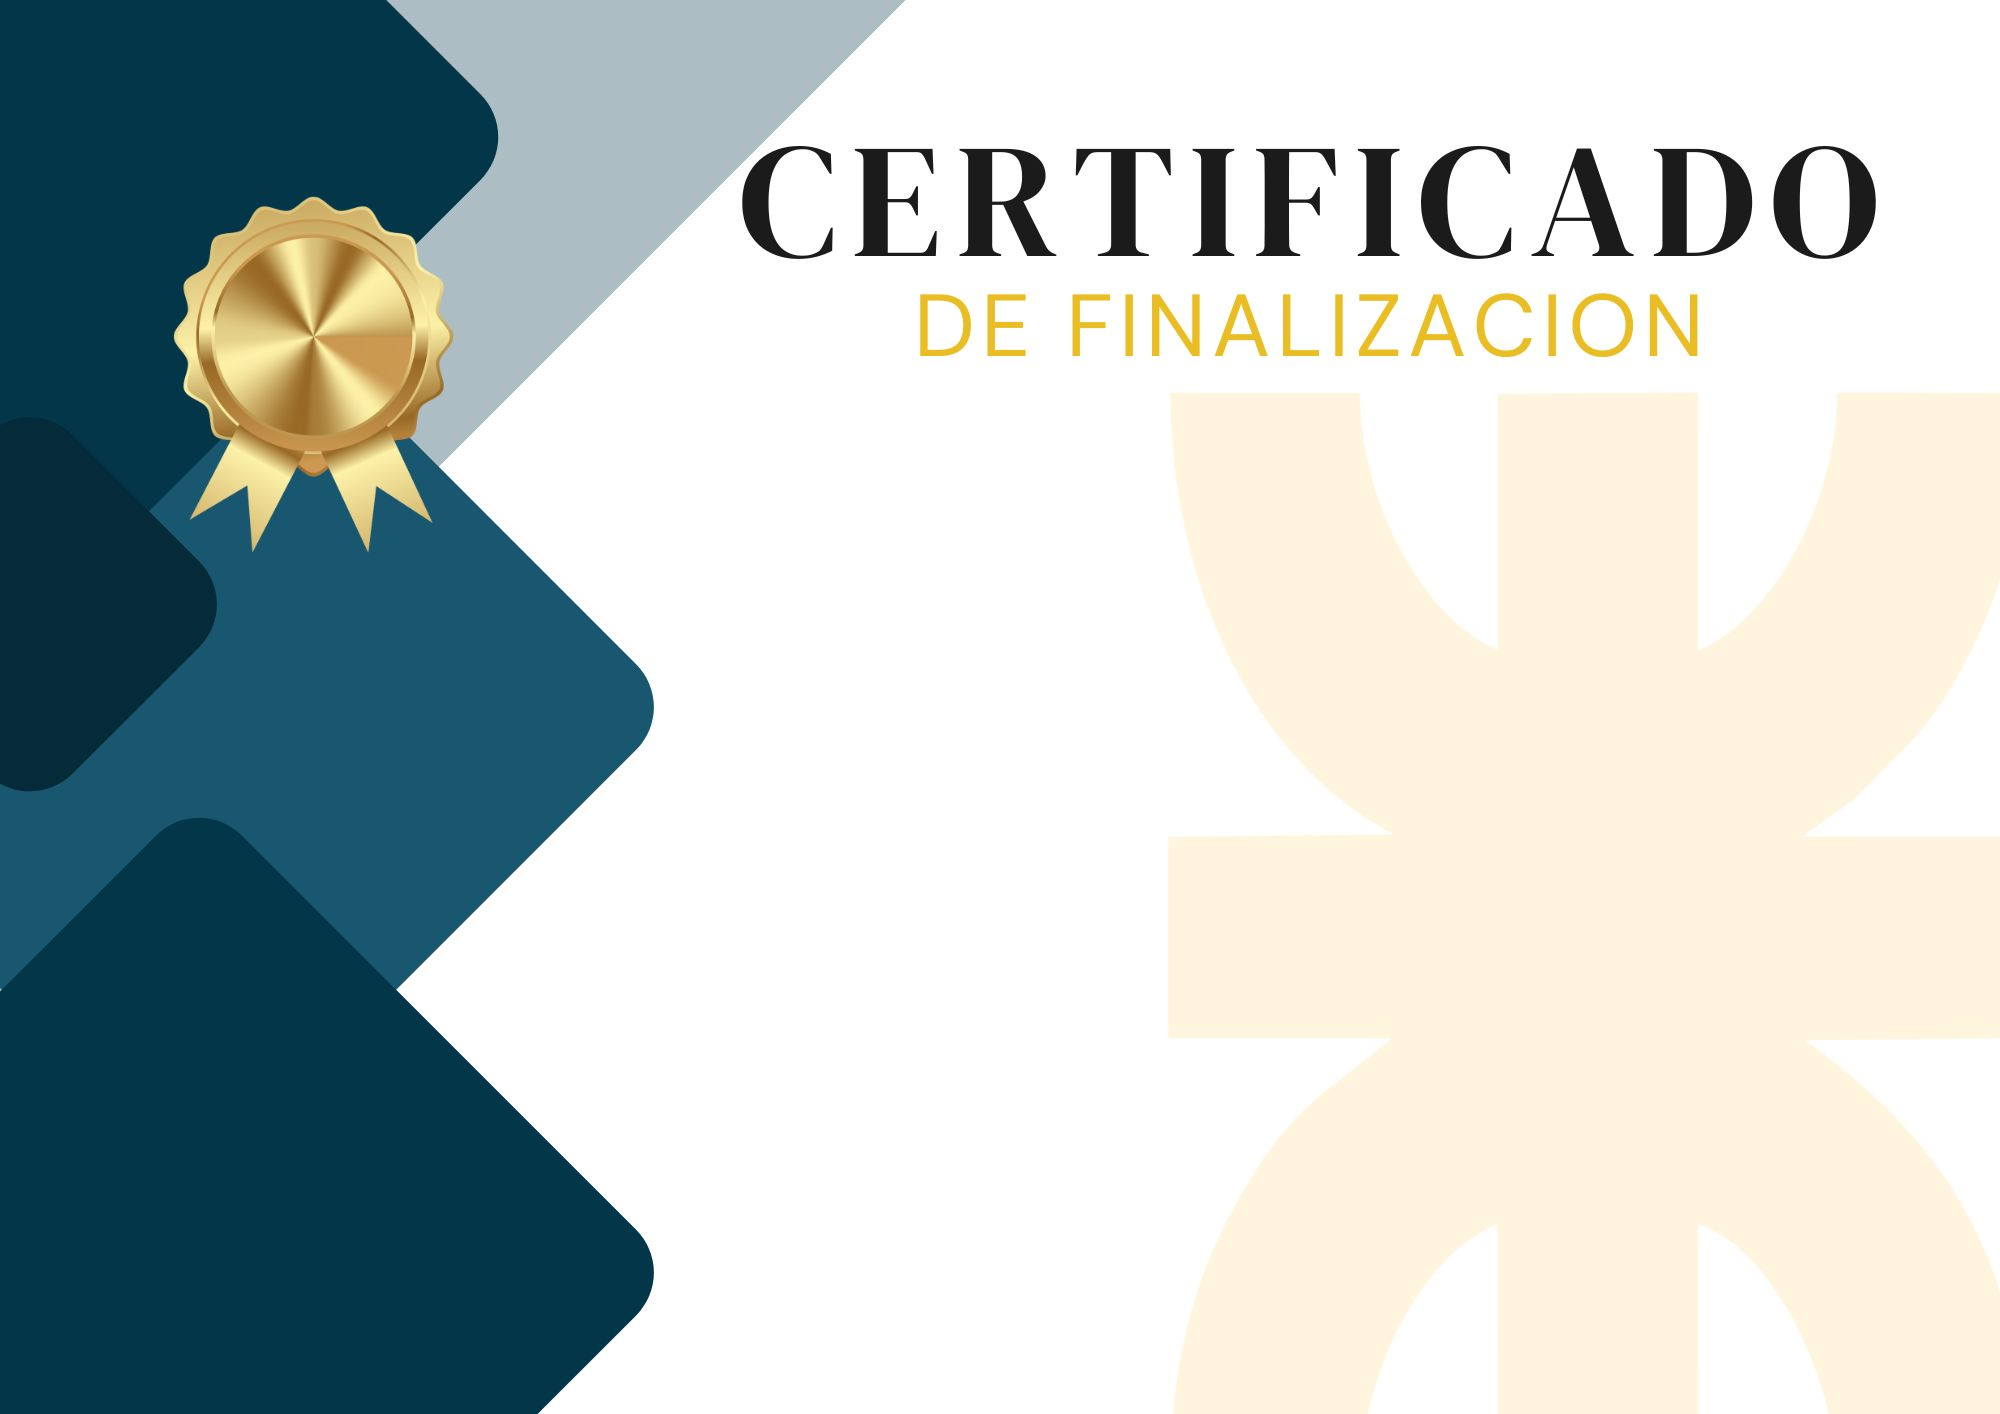
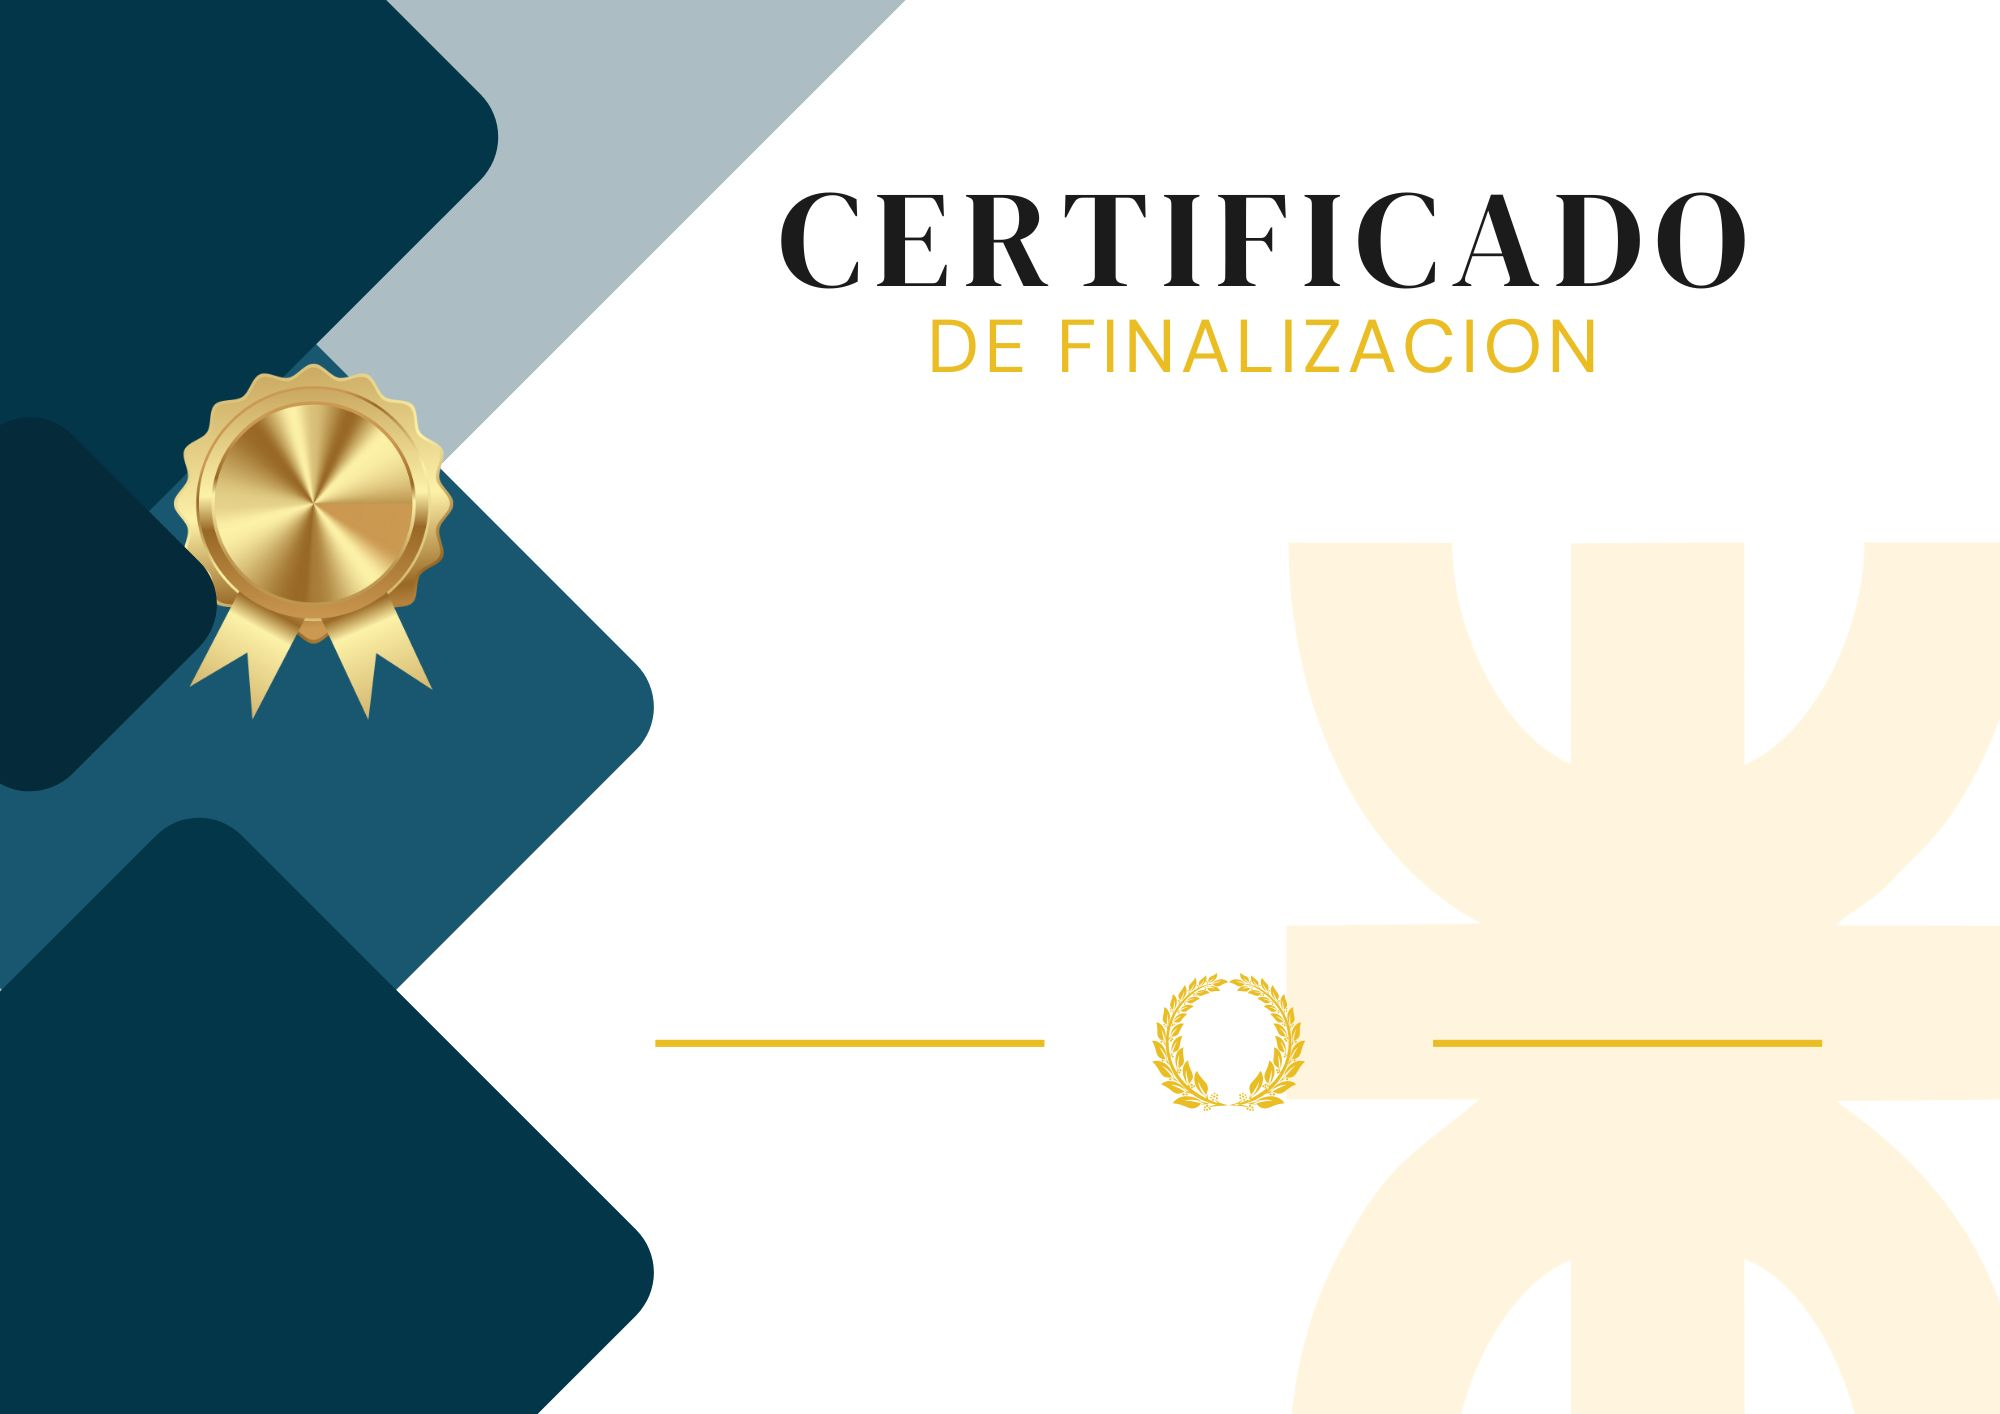
Certificado Base estructuración

diff --git a/resources/views/certificados/plantilla.blade.php b/resources/views/certificados/plantilla.blade.php
@@ -6,63 +6,59 @@
     <title>Certificado</title>
     <style>
         body {
-            font-family: Arial, sans-serif;
-            margin: 0;
-            padding: 0;
+            font-family: Arial, sans-serif;            
             text-align: center;
-            position: relative;
-            width: 100%;
-            height: 100vh;
+            position: relative;         
+            margin: -45;
+            padding: -45;
+            border: -45;
         }
 
         /* Imagen de fondo cubriendo toda la hoja */
         .fondo {
-            position: absolute;
-            top: 0;
-            left: 0;
-            width: 100%;
-            height: 100%;
+            position: fixed;            
+            width: 115%;
+            height:115%;
             background: url('{{ public_path('images/certificado_base.jpg') }}') no-repeat center center;
-            background-size: 100% 100%;
-            z-index: -1;
+            background-size: cover;
         }
 
         /* Contenedor del contenido centrado */
         .contenido {
-            position: absolute;
+            position: relative;
             top: 40%;
-            left: 50%;
+            left: 65%;
             transform: translate(-50%, -50%);
-            width: 70%;
-            font-size: 20px;
+            width: 60%;
+            font-size: 25px;
             text-align: center;
         }
 
         /* Sección de firmas */
-        .firmas {
-            position: absolute;
-            bottom: 10%;
-            left: 50%;
-            transform: translateX(-50%);
-            width: 80%;
-            display: flex;
-            justify-content: space-between;
-            align-items: center;
+        .firma p {
+            margin: 0;
+            padding: 0;
+        }
+
+        /* Clase para separar el Profesor de la Coordinadora */
+        .profesor-coordinadora {
+            margin-right: 200px; /* Ajusta este valor para aumentar la distancia entre ellos */
         }
 
         .firma {
+            position: relative;
+            margin-top: 45%;
+            display: flex;
+            justify-content: space-around;
+            align-items: center;
+            width: 80%;
+            margin-left: 35%;
+            margin-right: auto;
             text-align: center;
             font-size: 16px;
-            width: 40%;
+            width: 60%;
         }
 
-        .linea-firma {
-            margin-top: 50px;
-            border-top: 2px solid #000;
-            width: 80%;
-            margin-left: auto;
-            margin-right: auto;
-        }
     </style>
 </head>
 <body>
@@ -72,18 +68,28 @@
         <p>Se certifica que <strong>{{ $nombre }}</strong> ha completado el curso <strong>{{ $curso }}</strong> en la modalidad <strong>{{ $modalidad }}</strong>, 
         finalizado en la fecha <strong>{{ $fecha }}</strong>.</p>
     </div>
-
-    <div class="firmas">
-        <div class="firma">
-            <div class="linea-firma"></div>
-            <p><strong>{{ $profesor }}</strong></p>
-            <p>Profesor</p>
-        </div>
-        <div class="firma">
-            <div class="linea-firma"></div>
-            <p><strong>{{ $coordinadora }}</strong></p>
-            <p>Coordinadora</p>
-        </div>
+    
+    <div class="firma">
+        <!-- Aquí agregamos el espacio entre las firmas -->
+        <p><strong>{{ $profesor }}</strong> 
+        &nbsp;&nbsp;&nbsp;&nbsp;&nbsp;&nbsp;&nbsp;&nbsp;&nbsp;
+        &nbsp;&nbsp;&nbsp;&nbsp;&nbsp;&nbsp;&nbsp;&nbsp;&nbsp;
+        &nbsp;&nbsp;&nbsp;&nbsp;&nbsp;&nbsp;&nbsp;&nbsp;&nbsp;
+        &nbsp;&nbsp;&nbsp;&nbsp;&nbsp;&nbsp;&nbsp;&nbsp;&nbsp;
+        &nbsp;&nbsp;&nbsp;&nbsp;;&nbsp;&nbsp;&nbsp;&nbsp;&nbsp;
+        &nbsp;&nbsp;&nbsp;&nbsp;&nbsp;&nbsp;&nbsp;&nbsp;&nbsp;
+        &nbsp;&nbsp;&nbsp;&nbsp;&nbsp;&nbsp;&nbsp;&nbsp;&nbsp;
+        &nbsp;&nbsp;&nbsp;&nbsp;&nbsp;&nbsp;&nbsp;&nbsp;&nbsp; <strong>{{ $coordinadora }}</strong></p>
+        <p>Profesor &nbsp;&nbsp;&nbsp;&nbsp;&nbsp;&nbsp;&nbsp;
+            &nbsp;&nbsp;&nbsp;&nbsp;&nbsp;&nbsp;&nbsp;&nbsp;&nbsp;
+            &nbsp;&nbsp;&nbsp;&nbsp;&nbsp;&nbsp;&nbsp;
+            &nbsp;&nbsp;&nbsp;&nbsp;&nbsp;&nbsp;&nbsp;&nbsp;&nbsp;
+            &nbsp;&nbsp;&nbsp;&nbsp;&nbsp;&nbsp;&nbsp;
+            &nbsp;&nbsp;&nbsp;&nbsp;&nbsp;&nbsp;&nbsp;&nbsp;&nbsp;
+            &nbsp;&nbsp;&nbsp;&nbsp;&nbsp;&nbsp;&nbsp;
+            &nbsp;&nbsp;&nbsp;&nbsp;&nbsp;&nbsp;&nbsp;&nbsp;&nbsp;
+            &nbsp;&nbsp;&nbsp;&nbsp;&nbsp;&nbsp;&nbsp;&nbsp;&nbsp;
+            &nbsp;&nbsp;&nbsp;&nbsp;&nbsp;&nbsp;Coordinador </p>
     </div>
 </body>
 </html>
